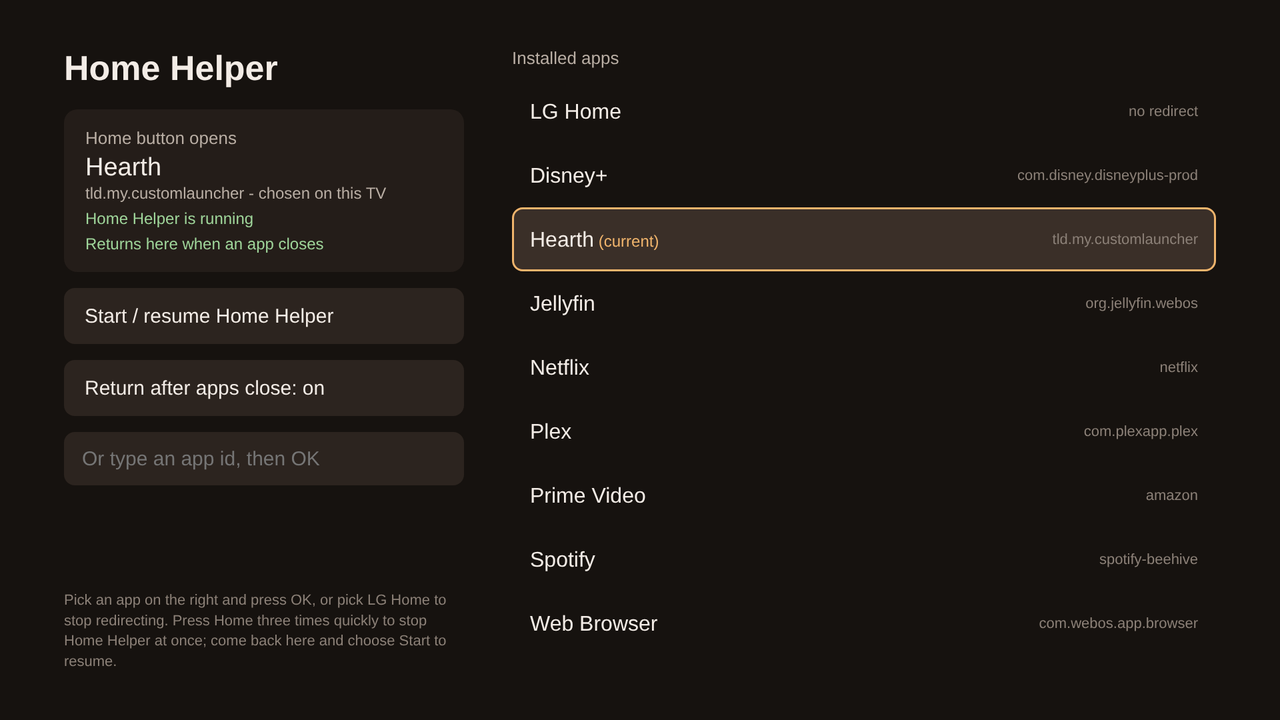
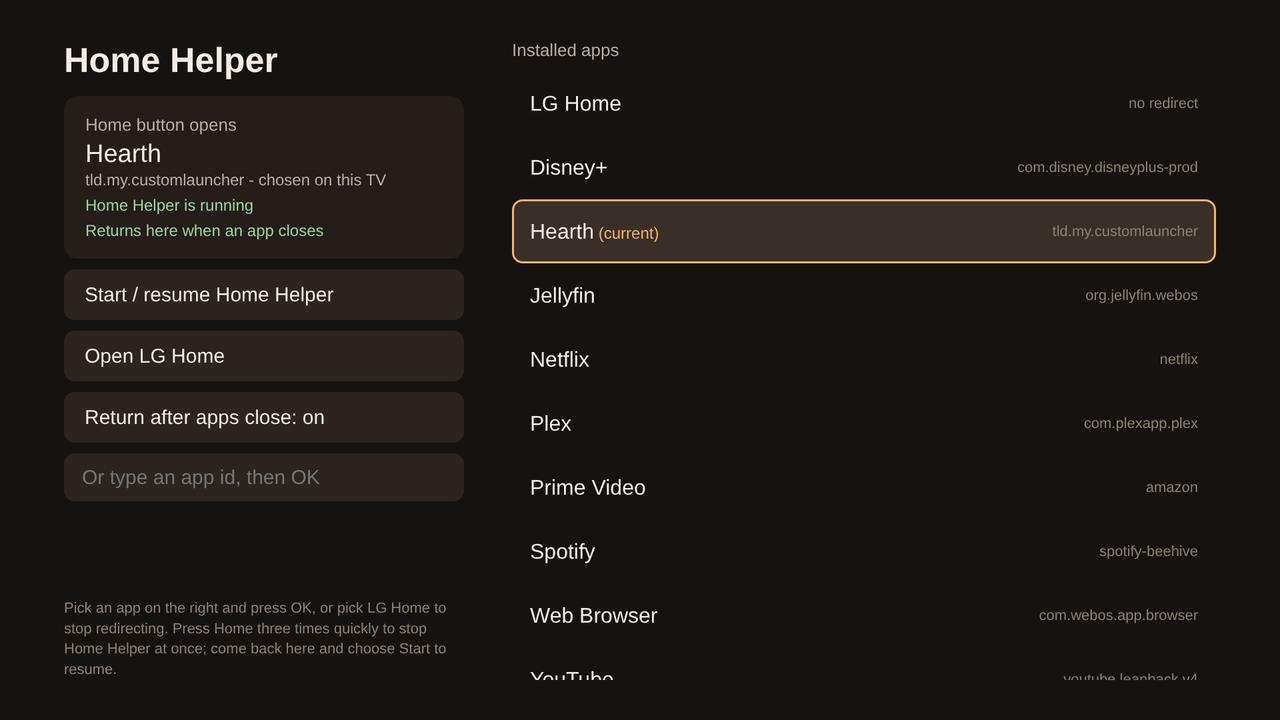
Settings: Open LG Home button
Opens LG Home once without changing the chosen app. Tightens the left
column so every button and the hint fit on screen.

Claude-Session: https://claude.ai/code/session_01GGffTuPnQ7r8XtEgn8LE92

diff --git a/settings/index.html b/settings/index.html
@@ -7,20 +7,20 @@
   * { box-sizing: border-box; }
   html, body { margin: 0; width: 1920px; height: 1080px; overflow: hidden;
     background: #16120f; color: #f3ece6; font-family: sans-serif; }
-  #wrap { display: flex; height: 100%; padding: 72px 96px; gap: 72px; }
-  #side { width: 600px; display: flex; flex-direction: column; gap: 24px; }
+  #wrap { display: flex; height: 100%; padding: 60px 96px; gap: 72px; }
+  #side { width: 600px; display: flex; flex-direction: column; gap: 16px; }
   h1 { font-size: 52px; margin: 0 0 8px; font-weight: 600; }
   .label { font-size: 26px; color: #b9aea4; }
   #current { background: #241d19; border-radius: 20px; padding: 28px 32px; }
   #currentTitle { font-size: 38px; margin: 6px 0 4px; word-break: break-all; }
   #currentMeta { font-size: 24px; color: #b9aea4; }
   #helperState, #pairState { font-size: 24px; margin-top: 10px; }
-  .btn { display: block; width: 100%; text-align: left; font-size: 30px; padding: 22px 28px;
+  .btn { display: block; width: 100%; text-align: left; font-size: 30px; padding: 18px 28px;
     border-radius: 16px; background: #2c241f; color: inherit; border: 3px solid transparent; }
   .focus { border-color: #f0b46c !important; background: #3a2f28 !important; }
-  #manual { font-size: 30px; padding: 20px 24px; border-radius: 16px; width: 100%;
+  #manual { font-size: 30px; padding: 16px 24px; border-radius: 16px; width: 100%;
     background: #2c241f; color: inherit; border: 3px solid transparent; outline: none; }
-  #msg { font-size: 26px; min-height: 64px; color: #f0b46c; }
+  #msg { font-size: 26px; min-height: 36px; color: #f0b46c; }
   #hint { font-size: 22px; color: #8c8178; margin-top: auto; line-height: 1.4; }
   #main { flex: 1; display: flex; flex-direction: column; min-width: 0; }
   #list { flex: 1; overflow: hidden; position: relative; margin-top: 16px; }
@@ -44,6 +44,7 @@
       <div id="pairState"></div>
     </div>
     <button class="btn nav" id="start">Start / resume Home Helper</button>
+    <button class="btn nav" id="lghome">Open LG Home</button>
     <button class="btn nav" id="pair">Return to this app when others close</button>
     <button class="btn nav" id="reset">Use packaged default</button>
     <input class="nav" id="manual" placeholder="Or type an app id, then OK">

diff --git a/settings/app.js b/settings/app.js
@@ -201,6 +201,11 @@
         message(ok ? 'Home Helper started.' : 'Could not start Home Helper.');
         setTimeout(refreshTarget, 1500);
       });
+    } else if (el.id === 'lghome') {
+      // A one-off visit: the Home button keeps opening the chosen app.
+      launch(LG_HOME, null, function (ok) {
+        if (!ok) message('Could not open LG Home.');
+      });
     } else if (el.id === 'pair') {
       startPairing();
     } else if (el.id === 'reset') {

diff --git a/README.md b/README.md
@@ -55,6 +55,9 @@ Open **Home Helper Settings** on the TV:
 3. Optional: choose **Return to this app when others close**, then **Allow**
    on the prompt the TV shows
 
+**Open LG Home** takes you to LG Home once, without changing your choice: the
+Home button keeps opening your app.
+
 After that the helper starts by itself on every boot.
 
 ![Home Helper Settings with Hearth chosen and pairing on](docs/settings-app-chosen.png)
